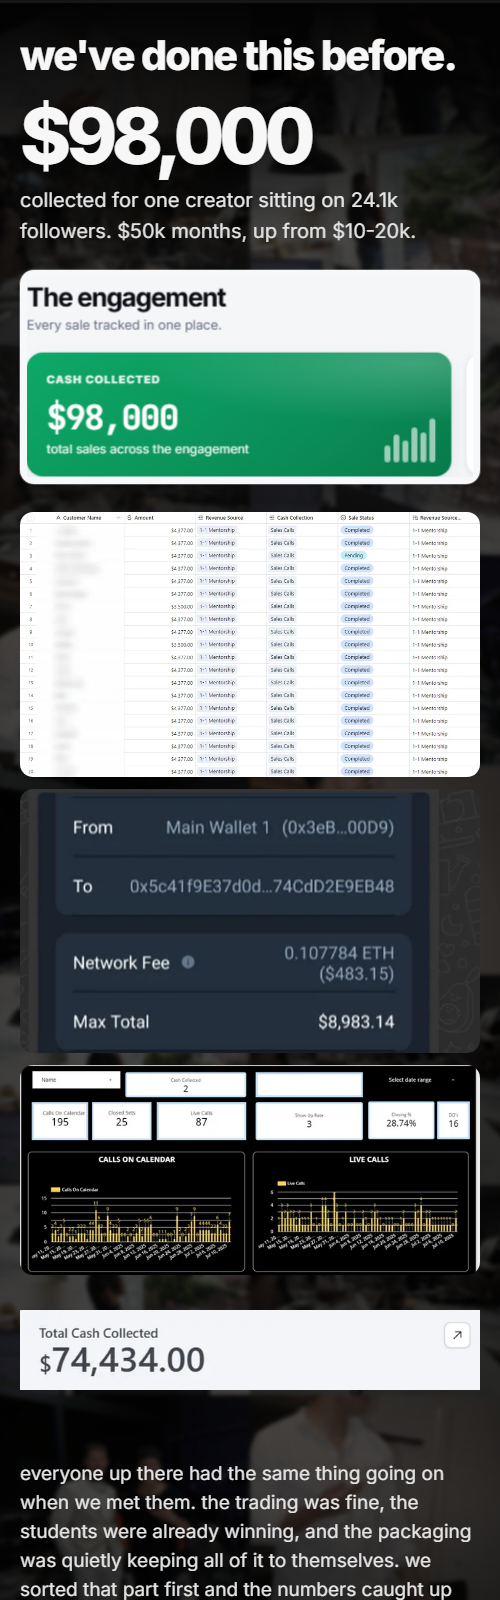
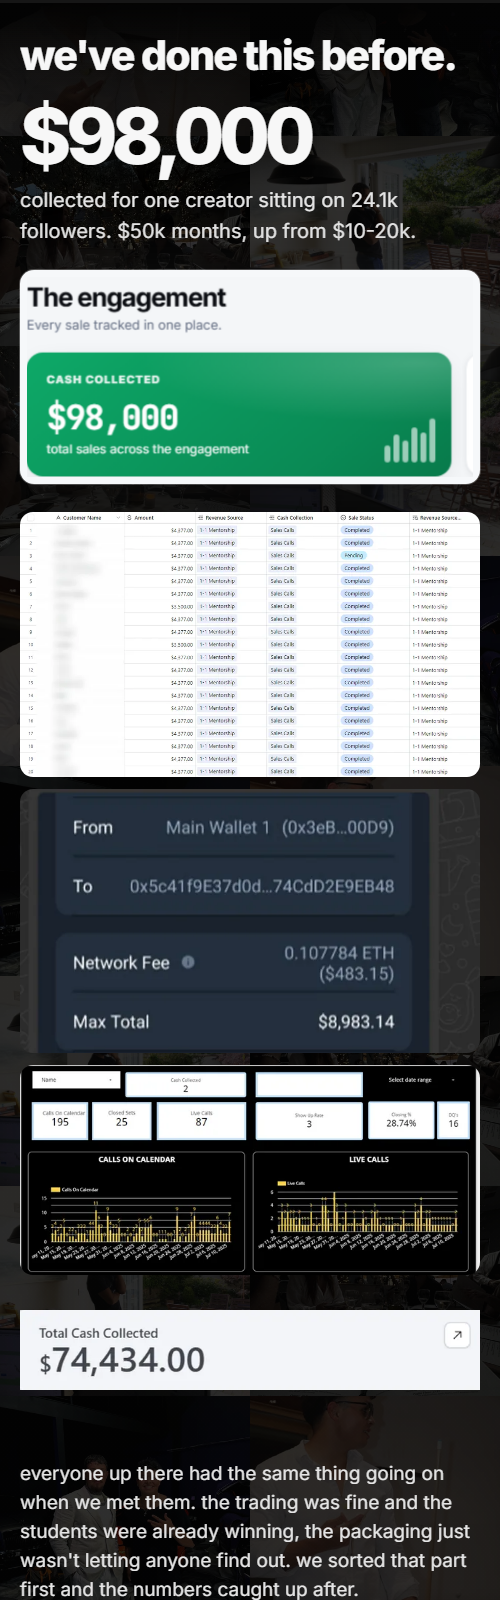
auto: checkpoint 2026-08-16 23:37:37

diff --git a/output/bergtrades-page/dist/styles.css b/output/bergtrades-page/dist/styles.css
@@ -531,8 +531,8 @@ em {
   inset: -4% -2%;
   flex-wrap: wrap;
   align-content: flex-start;
-  opacity: calc(0.4 + 0.16 * var(--cb-lift, 0));
-  filter: grayscale(0.42) brightness(0.84) blur(2px);
+  opacity: 1;
+  filter: saturate(0.88) brightness(calc(0.5 + 0.08 * var(--cb-lift, 0)));
   transform: translate3d(0, var(--cb-shift, 0px), 0);
   will-change: transform;
 }
@@ -547,10 +547,10 @@ em {
   object-fit: cover;
 }
 
-.cb-layer img:nth-child(4n + 1) { object-position: 50% 22%; }
-.cb-layer img:nth-child(4n + 2) { object-position: 34% 50%; }
-.cb-layer img:nth-child(4n + 3) { object-position: 66% 38%; }
-.cb-layer img:nth-child(4n + 4) { object-position: 50% 64%; }
+.cb-layer img:nth-child(4n + 1) { object-position: 50% 26%; }
+.cb-layer img:nth-child(4n + 2) { object-position: 42% 40%; }
+.cb-layer img:nth-child(4n + 3) { object-position: 58% 30%; }
+.cb-layer img:nth-child(4n + 4) { object-position: 50% 46%; }
 
 /* the scrim keeps every piece of copy above it at full contrast and hands the
    section back to pure black at both seams. */
@@ -558,8 +558,8 @@ em {
   position: absolute;
   inset: 0;
   background:
-    radial-gradient(ellipse 74% 56% at 50% 46%, transparent 0%, rgba(3, 3, 3, 0.32) 100%),
-    linear-gradient(180deg, #030303 0%, rgba(3, 3, 3, 0.22) 13%, rgba(3, 3, 3, 0.26) 80%, #030303 100%);
+    linear-gradient(96deg, rgba(3, 3, 3, 0.9) 0%, rgba(3, 3, 3, 0.82) 40%, rgba(3, 3, 3, 0.42) 68%, rgba(3, 3, 3, 0.26) 100%),
+    linear-gradient(180deg, #030303 0%, rgba(3, 3, 3, 0.1) 12%, rgba(3, 3, 3, 0.12) 82%, #030303 100%);
   content: "";
 }
 
@@ -841,6 +841,11 @@ em {
   .cb-layer img {
     width: 50%;
     height: 210px;
+  }
+
+  .close-backdrop::after {
+    background:
+      linear-gradient(180deg, #030303 0%, rgba(3, 3, 3, 0.66) 10%, rgba(3, 3, 3, 0.7) 86%, #030303 100%);
   }
 }
 

diff --git a/output/bergtrades-page/styles.css b/output/bergtrades-page/styles.css
@@ -531,8 +531,8 @@ em {
   inset: -4% -2%;
   flex-wrap: wrap;
   align-content: flex-start;
-  opacity: calc(0.4 + 0.16 * var(--cb-lift, 0));
-  filter: grayscale(0.42) brightness(0.84) blur(2px);
+  opacity: 1;
+  filter: saturate(0.88) brightness(calc(0.5 + 0.08 * var(--cb-lift, 0)));
   transform: translate3d(0, var(--cb-shift, 0px), 0);
   will-change: transform;
 }
@@ -547,10 +547,10 @@ em {
   object-fit: cover;
 }
 
-.cb-layer img:nth-child(4n + 1) { object-position: 50% 22%; }
-.cb-layer img:nth-child(4n + 2) { object-position: 34% 50%; }
-.cb-layer img:nth-child(4n + 3) { object-position: 66% 38%; }
-.cb-layer img:nth-child(4n + 4) { object-position: 50% 64%; }
+.cb-layer img:nth-child(4n + 1) { object-position: 50% 26%; }
+.cb-layer img:nth-child(4n + 2) { object-position: 42% 40%; }
+.cb-layer img:nth-child(4n + 3) { object-position: 58% 30%; }
+.cb-layer img:nth-child(4n + 4) { object-position: 50% 46%; }
 
 /* the scrim keeps every piece of copy above it at full contrast and hands the
    section back to pure black at both seams. */
@@ -558,8 +558,8 @@ em {
   position: absolute;
   inset: 0;
   background:
-    radial-gradient(ellipse 74% 56% at 50% 46%, transparent 0%, rgba(3, 3, 3, 0.32) 100%),
-    linear-gradient(180deg, #030303 0%, rgba(3, 3, 3, 0.22) 13%, rgba(3, 3, 3, 0.26) 80%, #030303 100%);
+    linear-gradient(96deg, rgba(3, 3, 3, 0.9) 0%, rgba(3, 3, 3, 0.82) 40%, rgba(3, 3, 3, 0.42) 68%, rgba(3, 3, 3, 0.26) 100%),
+    linear-gradient(180deg, #030303 0%, rgba(3, 3, 3, 0.1) 12%, rgba(3, 3, 3, 0.12) 82%, #030303 100%);
   content: "";
 }
 
@@ -841,6 +841,11 @@ em {
   .cb-layer img {
     width: 50%;
     height: 210px;
+  }
+
+  .close-backdrop::after {
+    background:
+      linear-gradient(180deg, #030303 0%, rgba(3, 3, 3, 0.66) 10%, rgba(3, 3, 3, 0.7) 86%, #030303 100%);
   }
 }
 

diff --git a/AGENT_CHAT.md b/AGENT_CHAT.md
@@ -1629,3 +1629,16 @@ With the photos gone the wall holds only the four metric screenshots, so they we
 Verified in Chrome. Contrast measured off the rendered still against glyph-free ground: the note line is the worst case at 8.16:1, the tail paragraph 14.89:1, the CTA row 15.14:1, all well past AA. Spread sweeps correctly across a real 900px scroll range, scale 0.8999 to 0.9999 and per-item offset 54.64px to 0.05px, with the backdrop shift and lift tracking alongside. Zero root overflow at 1280, 976 and 500. Reduced motion and print pin both `.pw-item` and `.cb-layer`.
 
 Source, `dist/` and `_capture.html` in parity, capture normalises byte-equal to source, JS parses, CSS braces balance 144/144, no banned glyphs, no dead references. All nine assets in use. Stills: `shots/room-1280.png`, `shots/room-500.png`. CTA, tracking hook, neighbouring sections and asset files unchanged. No deploy.
+
+### [2026-08-16 23:40] CLAUDE
+TWO CHANGES, DEPLOYED. Founder flagged that the client photos read as translucent, that only two of the four were visible, and that the closing paragraph was too salesy.
+
+Photos: each was 34% wide but spanned the full 1282px section height, so the crop was extreme and only two ever registered. Replaced the four absolutely-positioned panels with a tiled field of 24 images at 25% width and clamp(200px, 21vw, 340px) height on desktop, 50% and 210px on mobile, cycling the four photos in a shuffled pattern so the same face never sits adjacent or directly below itself, with four rotating object-position values so repeats do not read as a pattern.
+
+Then the translucency itself. The ghosted look came from the blur and grayscale, not only the opacity, so both are gone: the layer is now opacity 1, `saturate(0.88)`, and exposure via `brightness(0.5)` rising to 0.58 with `--cb-lift`. Legibility moved to the scrim, which is now asymmetric on desktop, 0.9 alpha under the copy column falling to 0.26 on the open right side, so the photographs genuinely read where nothing sits over them. Mobile keeps an even 0.66 to 0.7 scrim because the copy runs full width there.
+
+Contrast re-measured on a ground-only render with all copy hidden, sampling the true background beneath each block rather than glyph edges: heading 15.57:1, the $98,000 figure 10.89:1, the note line 10.03:1, the closing paragraphs 7.45:1, the CTA 15.78:1. Worst case 7.45:1 against AA's 4.5.
+
+Copy: the old paragraph pitched a dashboard and portal, which was the part reading as sales. Replaced with the shared-diagnosis framing the founder asked for. The common thread is packaging, which is what the whole page already argues (section 1 has his own $18,530 title at 558 views against 62/181/373/107; section 4 has Nick's 200-sub channel at 814/737/314), so the close names the page's own argument rather than making a new claim. Second paragraph is Bergin-specific and every item in it already appears earlier on the page. No invented figures.
+
+Source, `dist/` and `_capture.html` in parity, JS parses, braces balance 142/142, no banned glyphs. Deployed to Cloudflare Pages project `bergtrades-preview`; live at https://bergtrades-preview.pages.dev. NOTE for both agents: this page is now publicly reachable and carries a named prospect plus real client revenue screenshots.
